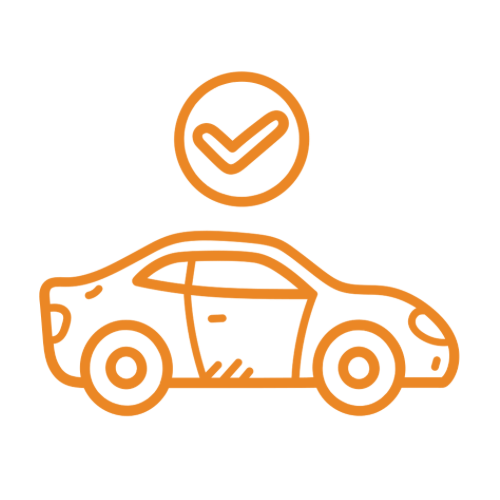
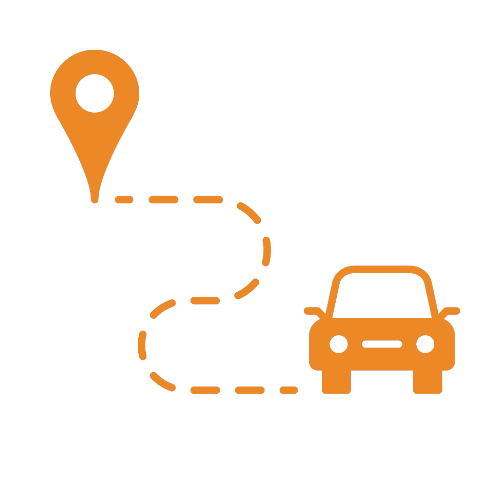
..

Changed region(s): [[0.06, 0.12, 0.93, 0.84], [0.09, 0.09, 0.3, 0.42], [0.3, 0.39, 0.36, 0.42]]

diff --git a/lib/features/ride_start/presentation/pages/ride_tracking_page.dart b/lib/features/ride_start/presentation/pages/ride_tracking_page.dart
@@ -86,14 +86,15 @@ class _RideTrackingScreenState extends State<RideTrackingScreen>
   }
 
   Future<void> _resumeTrackingAutomatically() async {
+    final theme = Theme.of(context);
     if (!_isTracking &&
         mounted &&
         _rideData != null &&
         _isRideTrackerInitialized) {
       ScaffoldMessenger.of(context).showSnackBar(
-        const SnackBar(
+        SnackBar(
           content: Text('Location enabled - resuming tracking'),
-          backgroundColor: Colors.green,
+          backgroundColor: theme.secondaryHeaderColor,
           duration: Duration(seconds: 2),
         ),
       );
@@ -180,15 +181,16 @@ class _RideTrackingScreenState extends State<RideTrackingScreen>
   }
 
   Future<void> _handleLocationPermissions() async {
+    final theme = Theme.of(context);
     final servicesEnabled = await Geolocator.isLocationServiceEnabled();
 
     if (!servicesEnabled) {
       // Show snackbar and open location services settings
       if (mounted) {
         ScaffoldMessenger.of(context).showSnackBar(
-          const SnackBar(
+          SnackBar(
             content: Text('Opening location services settings...'),
-            backgroundColor: Colors.orange,
+            backgroundColor: theme.primaryColor,
             duration: Duration(seconds: 2),
           ),
         );
@@ -207,9 +209,9 @@ class _RideTrackingScreenState extends State<RideTrackingScreen>
       if (requestResult == LocationPermission.denied) {
         if (mounted) {
           ScaffoldMessenger.of(context).showSnackBar(
-            const SnackBar(
+            SnackBar(
               content: Text('Location permission denied'),
-              backgroundColor: Colors.red,
+              backgroundColor: theme.indicatorColor,
               duration: Duration(seconds: 2),
             ),
           );
@@ -220,9 +222,9 @@ class _RideTrackingScreenState extends State<RideTrackingScreen>
       if (requestResult == LocationPermission.deniedForever) {
         if (mounted) {
           ScaffoldMessenger.of(context).showSnackBar(
-            const SnackBar(
+            SnackBar(
               content: Text('Opening app settings for location permission...'),
-              backgroundColor: Colors.orange,
+              backgroundColor: theme.primaryColor,
               duration: Duration(seconds: 2),
             ),
           );
@@ -256,11 +258,12 @@ class _RideTrackingScreenState extends State<RideTrackingScreen>
   }
 
   Future<void> _startTracking() async {
+    final theme = Theme.of(context);
     if (_rideData == null || !_isRideTrackerInitialized) {
       ScaffoldMessenger.of(context).showSnackBar(
-        const SnackBar(
+        SnackBar(
           content: Text('Cannot start tracking: Ride tracker not initialized'),
-          backgroundColor: Colors.red,
+          backgroundColor: theme.indicatorColor,
           duration: Duration(seconds: 3),
         ),
       );
@@ -276,7 +279,7 @@ class _RideTrackingScreenState extends State<RideTrackingScreen>
         ScaffoldMessenger.of(context).showSnackBar(
           SnackBar(
             content: Text('Tracking error: ${e.toString()}'),
-            backgroundColor: Colors.red,
+            backgroundColor: theme.indicatorColor,
           ),
         );
       }
@@ -421,7 +424,7 @@ class _RideTrackingScreenState extends State<RideTrackingScreen>
       ScaffoldMessenger.of(context).showSnackBar(
         SnackBar(
           content: Text('Failed to end ride: ${e.toString()}'),
-          backgroundColor: Colors.red,
+          backgroundColor: theme.indicatorColor,
           duration: const Duration(seconds: 3),
         ),
       );

diff --git a/lib/features/HomeScreens/presentation/pages/location_selection.dart b/lib/features/HomeScreens/presentation/pages/location_selection.dart
@@ -327,33 +327,6 @@ class _LocationSelectionScreenState extends State<LocationSelectionScreen> {
   }
 
   @override
-  @override
-/*************  ✨ Windsurf Command ⭐  *************/
-  /// Builds the UI for selecting a location on a map.
-  ///
-  /// It creates a [Scaffold] with an [AppBar] and a [BlocProvider] that
-  /// provides the [LocationSelectionBloc] to its descendants.
-  ///
-  /// The body of the [Scaffold] is a [BlocListener] that listens to the
-  /// [LocationSelectionBloc] and updates the UI when the state changes.
-  ///
-  /// The [BlocListener] has a child which is a [BlocBuilder] that builds the
-  /// UI depending on the role of the user.
-  ///
-  /// The [BlocBuilder] builds a [Stack] with two children. The first child
-  /// is the map background which is an [AndroidView] that displays the
-  /// native Google Map. The second child is the bottom modal sheet which
-  /// displays the location details and the buttons to select the location.
-  ///
-  /// The [BlocBuilder] also sets up the method channel to handle the
-  /// platform view's method calls and updates the map markers when the
-  /// platform view is created.
-  ///
-  /// The [BlocListener] also sets up the method channel to handle the
-  /// platform view's method calls and updates the map markers when the
-  /// location is selected.
-  /// *****  a3807f31-7023-40bb-811d-307f19100356  ******
-  
   Widget build(BuildContext context) {
     final theme = Theme.of(context);
     return Scaffold(
@@ -597,7 +570,6 @@ class _LocationSelectionScreenState extends State<LocationSelectionScreen> {
 
     Navigator.of(context).pushNamed(route, arguments: arguments);
   }
-
 }
 
 extension LatLngExtension on LatLng {

diff --git a/lib/features/HomeScreens/presentation/pages/home_screen.dart b/lib/features/HomeScreens/presentation/pages/home_screen.dart
@@ -133,19 +133,16 @@ class _HomeScreenState extends State<HomeScreen> with WidgetsBindingObserver {
         if (state is HomeLogoutSuccess) {
           context.read<Navigation>().navigateTo('/sign_in');
         } else if (state is OngoingTripError) {
-          if (!state.message.toLowerCase().contains('authentication token')) {
-            ScaffoldMessenger.of(context).showSnackBar(
-              SnackBar(content: Text(state.message)),
-            );
-          }
+          ScaffoldMessenger.of(context).showSnackBar(
+            SnackBar(content: Text(state.message)),
+          );
         } else if (state is RideCheckLoaded) {
           // Show review modal only if current user is not the driver (using Firebase UID)
+          _removeRideIdFromSharedPrefs();
           final currentUserUid = FirebaseAuth.instance.currentUser?.uid;
           if (currentUserUid != null &&
               currentUserUid != state.rideData.driverId) {
             _showReviewModal(context, state.rideData);
-          } else {
-            _removeRideIdFromSharedPrefs();
           }
         } else if (state is ReviewSuccess) {
           // Show success message

diff --git a/android/app/src/main/kotlin/com/example/vroo_test/NativeMapView.kt b/android/app/src/main/kotlin/com/example/vroo_test/NativeMapView.kt
@@ -37,10 +37,10 @@ class NativeMapView(
     private val routeColors = listOf(
     Color.parseColor("#8B008B"), // Dark magenta
     Color.parseColor("#008B8B"), // Dark cyan
-    Color.parseColor("#B8860B"), // Dark goldenrod
     Color.parseColor("#8B0000"), // Dark red
     Color.parseColor("#00008B"), // Dark blue
     Color.parseColor("#006400")  // Dark green
+    Color.parseColor("#B8860B"), // Dark goldenrod
 )
     private val START_MARKER_COLOR = BitmapDescriptorFactory.HUE_GREEN
     private val DEST_MARKER_COLOR = BitmapDescriptorFactory.HUE_RED

diff --git a/lib/features/sos/presentation/widgets/contact_list.dart b/lib/features/sos/presentation/widgets/contact_list.dart
@@ -68,7 +68,7 @@ class ContactList extends StatelessWidget {
                       builder: (dialogContext) => CustomDialog(
                             title: 'Delete Contact',
                             message:
-                                'Are you sure you want to delete this contact?',
+                                "Are you sure you want to delete ${contact.name}'s contact?",
                             confirmText: 'Delete',
                             cancelText: 'Cancel',
                             confirmColor: theme.indicatorColor,

diff --git a/lib/features/cars/presentation/widgets/delete_car.dart b/lib/features/cars/presentation/widgets/delete_car.dart
@@ -28,7 +28,8 @@ class DeleteCarWidget extends StatelessWidget {
       context: context,
       builder: (dialogContext) => CustomDialog(
         title: 'Delete Car',
-        message: 'Are you sure you want to delete this car?',
+        message:
+            'Are you sure you want to delete ${car.company} ${car.model} car?',
         confirmText: 'Delete',
         cancelText: 'Cancel',
         confirmColor: theme.indicatorColor,

diff --git a/lib/features/ride_start/data/data_source/start_ride_datasource.dart b/lib/features/ride_start/data/data_source/start_ride_datasource.dart
@@ -84,7 +84,6 @@ class StartRideRemoteDataSource implements StartRideDataSource {
   }
 
   @override
-  @override
   Future<Map<String, dynamic>> pickPassenger(
       String rideId, String passengerId, String action, String token) async {
     final url = Uri.parse(
